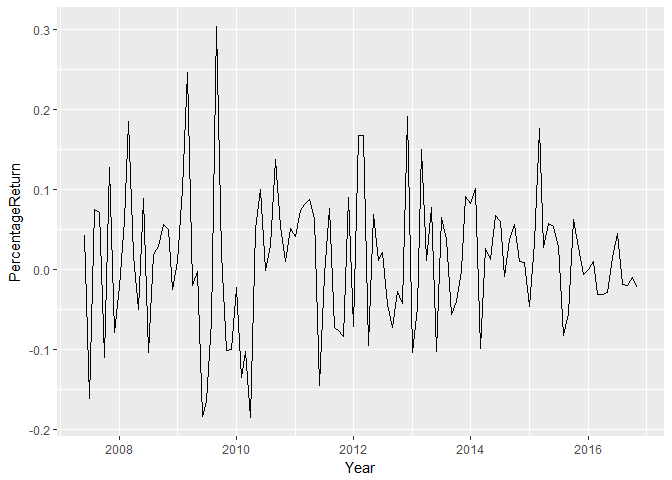
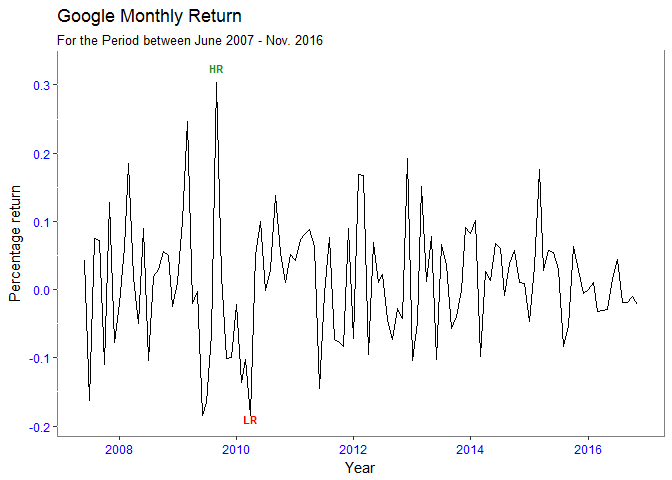
edits

diff --git a/fund_returns.md b/fund_returns.md
@@ -1,33 +1,17 @@
-Analysing Fund Returns
+Portfolio Analysis
 ================
 Aaron Simumba
-2017-02-03
+2017-02-06
 
-    ## Loading required package: xts
-
-    ## Loading required package: zoo
-
-    ## 
-    ## Attaching package: 'zoo'
-
-    ## The following objects are masked from 'package:base':
-    ## 
-    ##     as.Date, as.Date.numeric
-
-    ## Loading required package: TTR
-
-    ## Version 0.4-0 included new data defaults. See ?getSymbols.
-
-    ## Highcharts (www.highcharts.com) is a Highsoft software product which is
-
-    ## not free for commercial and Governmental use
-
-    ## 
-    ## Attaching package: 'PerformanceAnalytics'
-
-    ## The following object is masked from 'package:graphics':
-    ## 
-    ##     legend
+``` r
+## Packages to load
+library(quantmod)
+library(ggplot2) 
+library(xts)
+library(highcharter)
+library(PerformanceAnalytics)
+library(dygraphs)
+```
 
 ``` r
 #loading the data
@@ -131,12 +115,6 @@ ggplot(data = fundreturn_final, aes(x=Year, y=PercentageReturn, color=Stockticke
 # GOOG
 GOOG <- subset(fundreturn_final, Stockticker=="GOOG")
 g <- ggplot(data = GOOG, aes(x=Year, y=PercentageReturn)) +geom_line()
-g
-```
-
-![](fund_returns_files/figure-markdown_github/unnamed-chunk-5-1.png)
-
-``` r
 # add features
 g <- g + ggtitle("Google Monthly Return", subtitle = "For the Period between June 2007 - Nov. 2016") + 
       theme(panel.background = element_rect(fill = "white", colour = "grey50"),
@@ -151,7 +129,7 @@ g + annotate("text",x=as.Date("2009-09-01"),y=0.3245,label="HR",fontface="bold",
 annotate("text",x=as.Date("2010-04-01"),y=-0.1900,label="LR",fontface="bold",size=3,colour ="red") 
 ```
 
-![](fund_returns_files/figure-markdown_github/unnamed-chunk-5-2.png)
+![](fund_returns_files/figure-markdown_github/unnamed-chunk-5-1.png)
 
 ``` r
 # Portfolio Performance Appraisal
@@ -243,31 +221,12 @@ dygraph(dollar_growth, main = "Growth of $1 Invested in Portfolio") %>%
 
 ``` r
 # Calculating the Sharpe Ratio
-
-# Method 1: use the Return.excess function from Performance Analytics package, 
-# then calculate the Sharpe Ratio manually.
-portfolio_excess_returns <- Return.excess(monthly_P_return, Rf = .0003)
-print(sharpe_ratio_manual <- round(mean(portfolio_excess_returns)/StdDev(portfolio_excess_returns), 4))
+# Taking the US 10 Year Treasury Rate of 2.40% as the risk free rate.
+# Making use of the built in SharpeRatio function in Performance Analytics package.
+print(sharpe_ratio <- round(SharpeRatio(monthly_P_return, Rf = 0.024), 4))
 ```
 
-    ##          [,1]
-    ## StdDev 0.2656
-
-``` r
-# If we wanted to use the original, 1966 formulation of the Sharpe Ratio, there is one small 
-# change to the code in Method 1.
-print(sharpe_ratio_manual_1966 <- round(mean(portfolio_excess_returns)/StdDev(monthly_P_return), 4))
-```
-
-    ##          [,1]
-    ## StdDev 0.2656
-
-``` r
-# Method 2: use the built in SharpeRatio function in Performance Analytics package.
-print(sharpe_ratio <- round(SharpeRatio(monthly_P_return, Rf = .0003), 4))
-```
-
-    ##                               portfolio.returns
-    ## StdDev Sharpe (Rf=0%, p=95%):            0.2656
-    ## VaR Sharpe (Rf=0%, p=95%):               0.1777
-    ## ES Sharpe (Rf=0%, p=95%):                0.1250
+    ##                                 portfolio.returns
+    ## StdDev Sharpe (Rf=2.4%, p=95%):           -0.0634
+    ## VaR Sharpe (Rf=2.4%, p=95%):              -0.0424
+    ## ES Sharpe (Rf=2.4%, p=95%):               -0.0298
